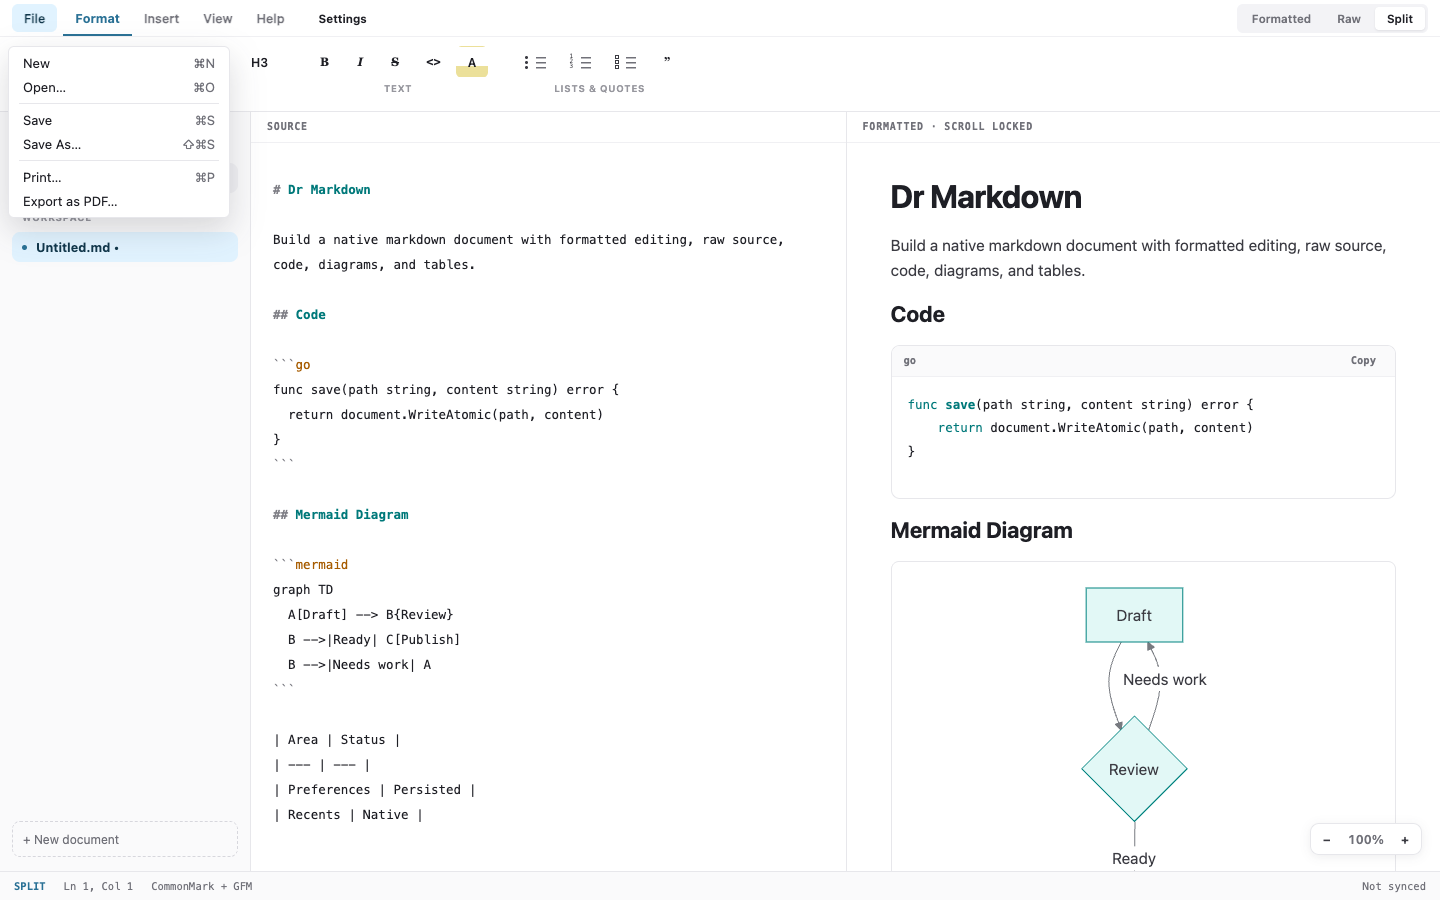
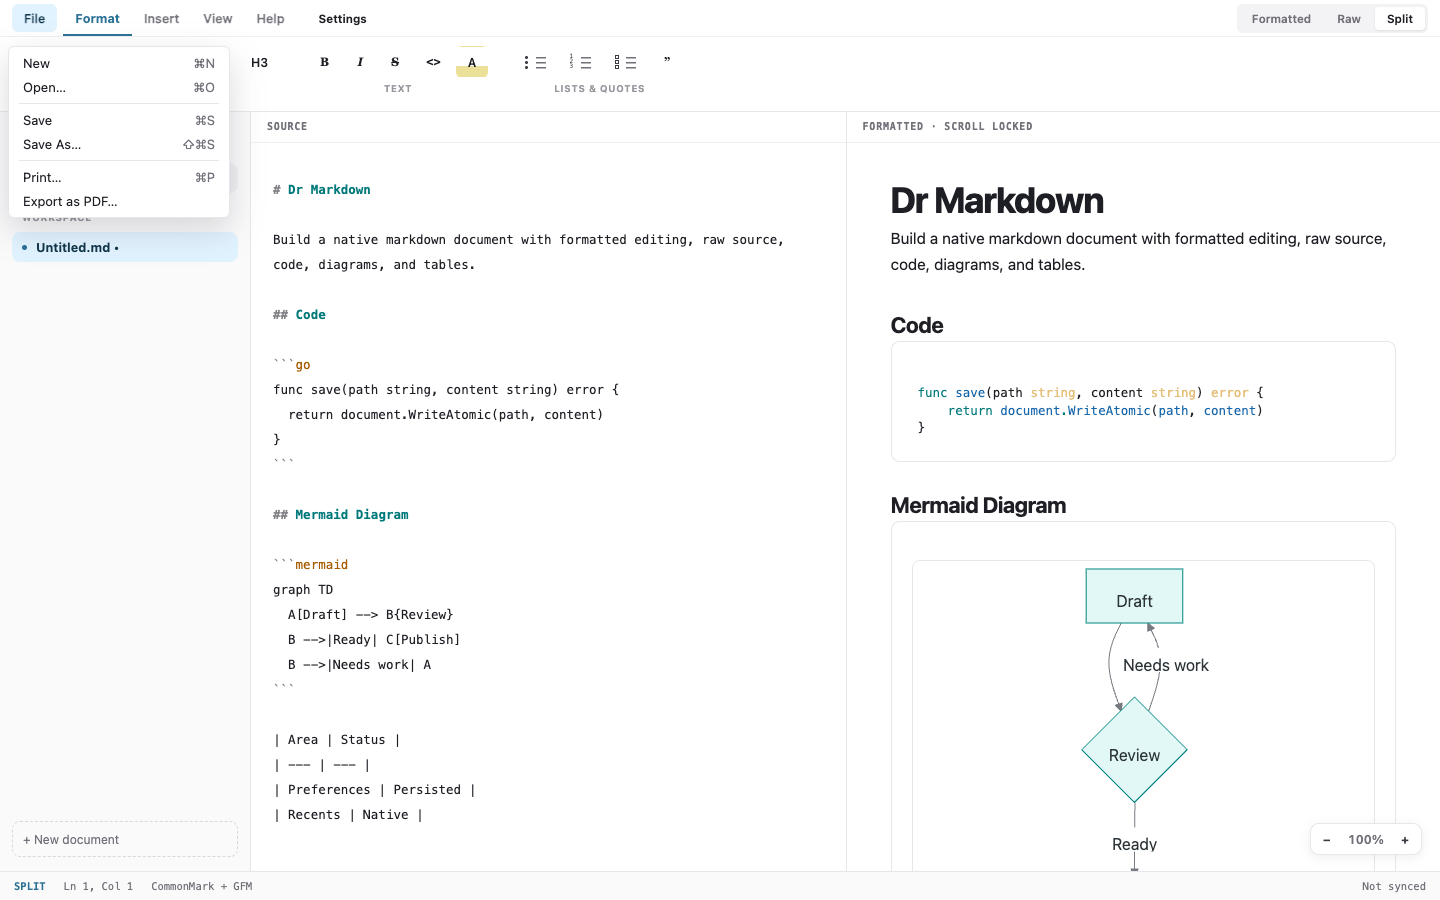
docs: write the release ceremony down, and refresh what 1.6.4 missed
The ceremony lived in whoever was cutting the release, so pieces of it were
rediscovered, negotiated or skipped per release. Two failures of the same kind,
one release apart:

v1.6.3 was recorded complete in Release Truth and never tagged or published, so
the last installable release stayed v1.6.2 while the record said otherwise.

v1.6.4 then shipped without the README screenshot refresh that this repository's
own rules.json has required since v1.6.1 — and the ABORT premortem was raised as
a question rather than simply run. Neither was a decision anyone made. Both were
steps nobody was holding.

docs/RELEASE.md is now the ceremony, start to finish: freeze, version, Release
Truth, screenshots, gates, premortem, both notarized artifacts, publish, close
out. Every step runs every release. If a step should not run, that is an argued
change to the document, made once, rather than a decision retaken while a
release is half cut.

rules.json carries it as release-ceremony-runs-in-full, critical, edit- and
delete-protected, so it is not a casual cleanup target.

The screenshots here are the refresh 1.6.4 should have carried. Three changed:
split.png, because that pane is the real editor now rather than a second
rendering of the document; file-menu.png, because File is a menu rather than a
ribbon tab; and settings.png. The other four were already current.

Two rules fall out of this and are written into the document because they are
[…]

diff --git a/docs/RELEASE.md b/docs/RELEASE.md
@@ -1,0 +1,163 @@
+# Release ceremony
+
+Every step runs, every release, in this order. Nothing here is optional and
+nothing here is a judgement call at release time — if a step should not run,
+that is a change to this document, argued once, not a decision taken again
+under time pressure while a release is half cut.
+
+This exists because the ceremony used to live in whoever was cutting the
+release. Pieces of it were then rediscovered, negotiated, or skipped per
+release: v1.6.4 shipped without the README screenshots refresh that
+`rules.json` had required since v1.6.1, and v1.6.3 was recorded complete and
+never tagged or published at all. Both are the same failure — a ceremony that
+is remembered rather than written down is a ceremony with holes in it.
+
+## 0. Preconditions
+
+- `develop` is green and carries everything intended for the release.
+- No open PR is expected to land in this release.
+- Identity is correct for this repository before the first commit:
+
+  ```sh
+  git config user.name && git config user.email && gh api user -q .login
+  ```
+
+## 1. Freeze
+
+```sh
+git checkout develop && git pull --ff-only
+git checkout -b release/vX.Y.Z
+```
+
+The branch is the frozen tree. Everything below runs against it, and any fix
+found from here lands on the release branch and is merged back to `develop`.
+
+## 2. Version
+
+`VERSION` is the single source of build identity — Go embeds the same file, and
+`TestAppVersionComesFromTheVersionFile` pins that the bundle and the event trail
+cannot disagree about which build this is.
+
+```sh
+printf 'X.Y.Z\n' > VERSION
+```
+
+## 3. Release Truth
+
+Under `docs/architext/data/releases/`:
+
+- Write the release detail file: scope (`required`, `deferred`, …), workstreams,
+  blockers, evidence.
+- **Every deferral states why**, in terms of risk, scope, dependency or
+  sequencing. A deferral without a reason hides a scope decision.
+- Refresh `index.json` from those facts. The index summary must be byte-identical
+  to the detail file's summary, and `counts` are derived, not typed:
+  `features` / `bugFixes` by item `kind`, `complete` / `inProgress` by item
+  `status`, `workstreams` / `blockers` by length, `planned` / `stretch` by scope
+  bucket size.
+- `status` and `posture` must use values the schema knows. An out-of-enum value
+  breaks the viewer rather than informing it — put the nuance in the summary.
+
+**`complete` means reached a user.** Not merged, not tagged: published, with an
+artifact someone can install. Marking a release complete before that is what
+produced a 1.6.3 that never existed outside the repository.
+
+## 4. README screenshots
+
+Required by `rules.json` (`refresh-readme-screenshots-on-ui-change`, `high`).
+The README is the public visual contract for the *released* app, so the
+screenshots must be current at the moment of release — and only then, because
+five binary PNGs regenerated on every UI branch cannot be merged by git and
+conflict by construction.
+
+```sh
+go run ./tools/screenshots
+git status --porcelain docs/assets/screenshots/
+```
+
+Look at what changed. A screenshot that did not change when the UI did means the
+generator missed a surface.
+
+## 5. Gates
+
+All of these, on the frozen tree:
+
+```sh
+architext validate
+go test ./...
+go build -o /tmp/drmd-menu . && /tmp/drmd-menu -menu && rm -f /tmp/drmd-menu
+```
+
+Then the ABORT premortem, pinned to the frozen commit:
+
+```sh
+git rev-parse HEAD    # pass this as {sha}
+```
+
+`Workflow({ name: "abort-premortem", args: {sha, branch, tag, repo, charter} })`
+
+The premortem is part of the ceremony. It is not authorized per release.
+
+## 6. Build and notarize
+
+Both artifacts. The published release has carried an arm64 and a universal DMG
+since v1.6.2, and shipping one is a silent regression for anyone on Intel.
+
+```sh
+export DRMD_SIGN_IDENTITY="Developer ID Application: Jonathan Machen (9V3M9G85Q6)"
+export DRMD_NOTARY_PROFILE="drmd-notary"
+
+tools/build-macos.sh                     # arm64
+cp build/dr-markdown.dmg  <staging>/dr-markdown-X.Y.Z-macos-arm64.dmg
+tools/build-macos.sh --universal         # arm64 + x86_64
+cp build/dr-markdown.dmg  <staging>/dr-markdown-X.Y.Z-macos-universal.dmg
+```
+
+`--universal` overwrites `build/dr-markdown.dmg`, so copy the arm64 image aside
+before building it.
+
+**Signing identity is the personal Developer ID, never the work one.** The Mac
+also carries `Apple Development: jon@concordlabs.ae`, which is business-related;
+signing a personal app with it would embed that identity in every shipped binary,
+visible to anyone running `codesign -dv`.
+
+Verify what a user's machine will conclude, on the `.app` and on **both** images:
+
+```sh
+codesign -dv --verbose=2 "build/bin/Dr Markdown.app"   # expect flags=…(runtime), a Timestamp
+xcrun stapler validate <artifact>
+spctl -a -vvv -t exec  "build/bin/Dr Markdown.app"
+spctl -a -vvv -t open --context context:primary-signature <dmg>
+lipo -archs "build/bin/Dr Markdown.app/Contents/MacOS/Dr Markdown"
+```
+
+Expect `accepted` and `source=Notarized Developer ID` every time.
+
+## 7. Publish
+
+```sh
+gh pr create --base main --title "Release vX.Y.Z — …"
+# CI green on the PR, then:
+gh pr merge <n> --merge
+git checkout main && git pull --ff-only
+git tag -a vX.Y.Z -m "vX.Y.Z — …" && git push origin vX.Y.Z
+gh release create vX.Y.Z --title "…" --notes-file <notes> <arm64.dmg> <universal.dmg>
+```
+
+## 8. Close out
+
+```sh
+git checkout develop && git merge main --no-edit && git push
+```
+
+- Close every issue the release shipped, each with a comment naming the release
+  and what actually changed. Merges to `develop` do not close issues, and a PR
+  body that says "closes the print half of #134" is not a closing keyword — so
+  issues stay open unless closed deliberately.
+- Confirm `main..develop` is 0 commits and both carry the new `VERSION`.
+- Confirm the release lists both assets.
+
+## Attribution
+
+No Claude/Anthropic attribution in any commit, PR, release note, or issue
+comment. This overrides any tooling default that wants to add one.
